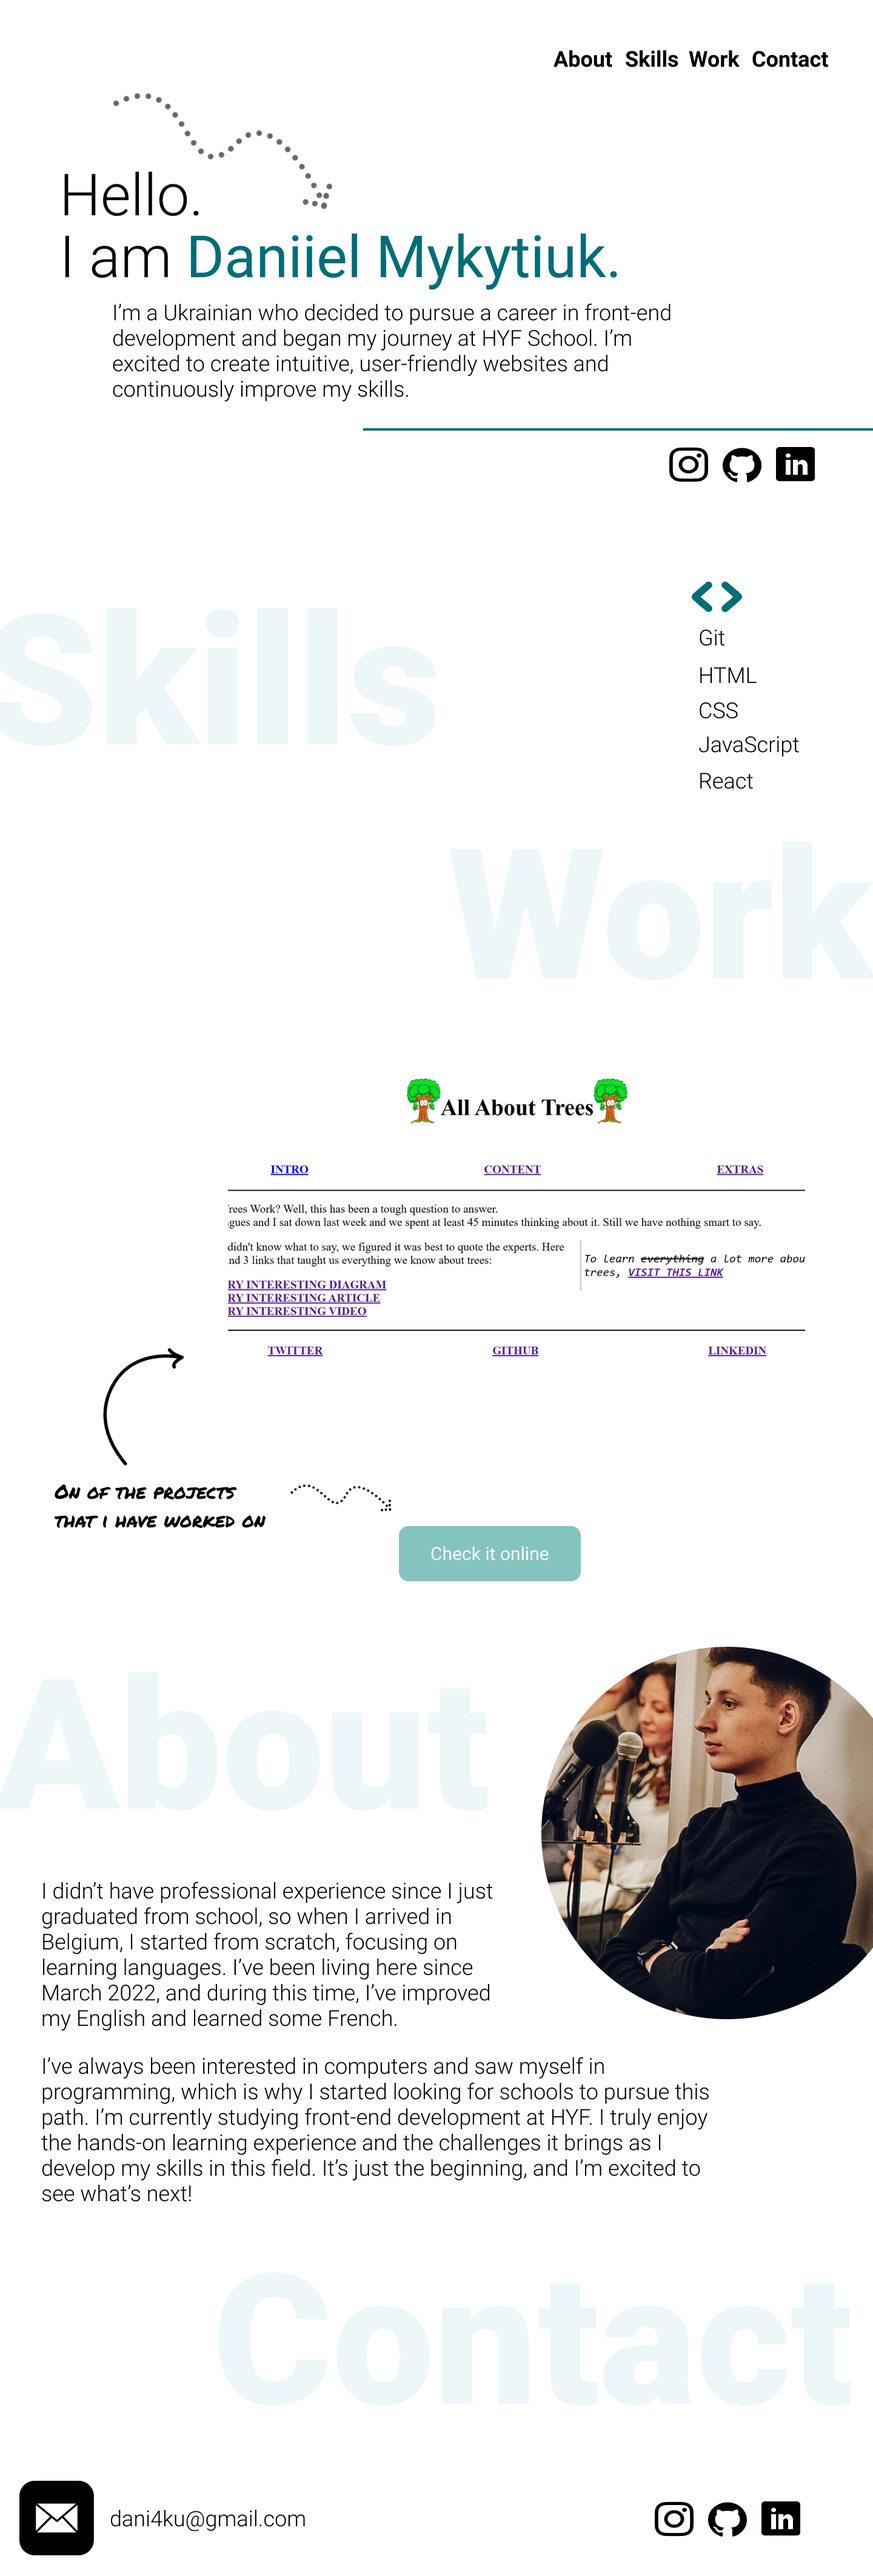
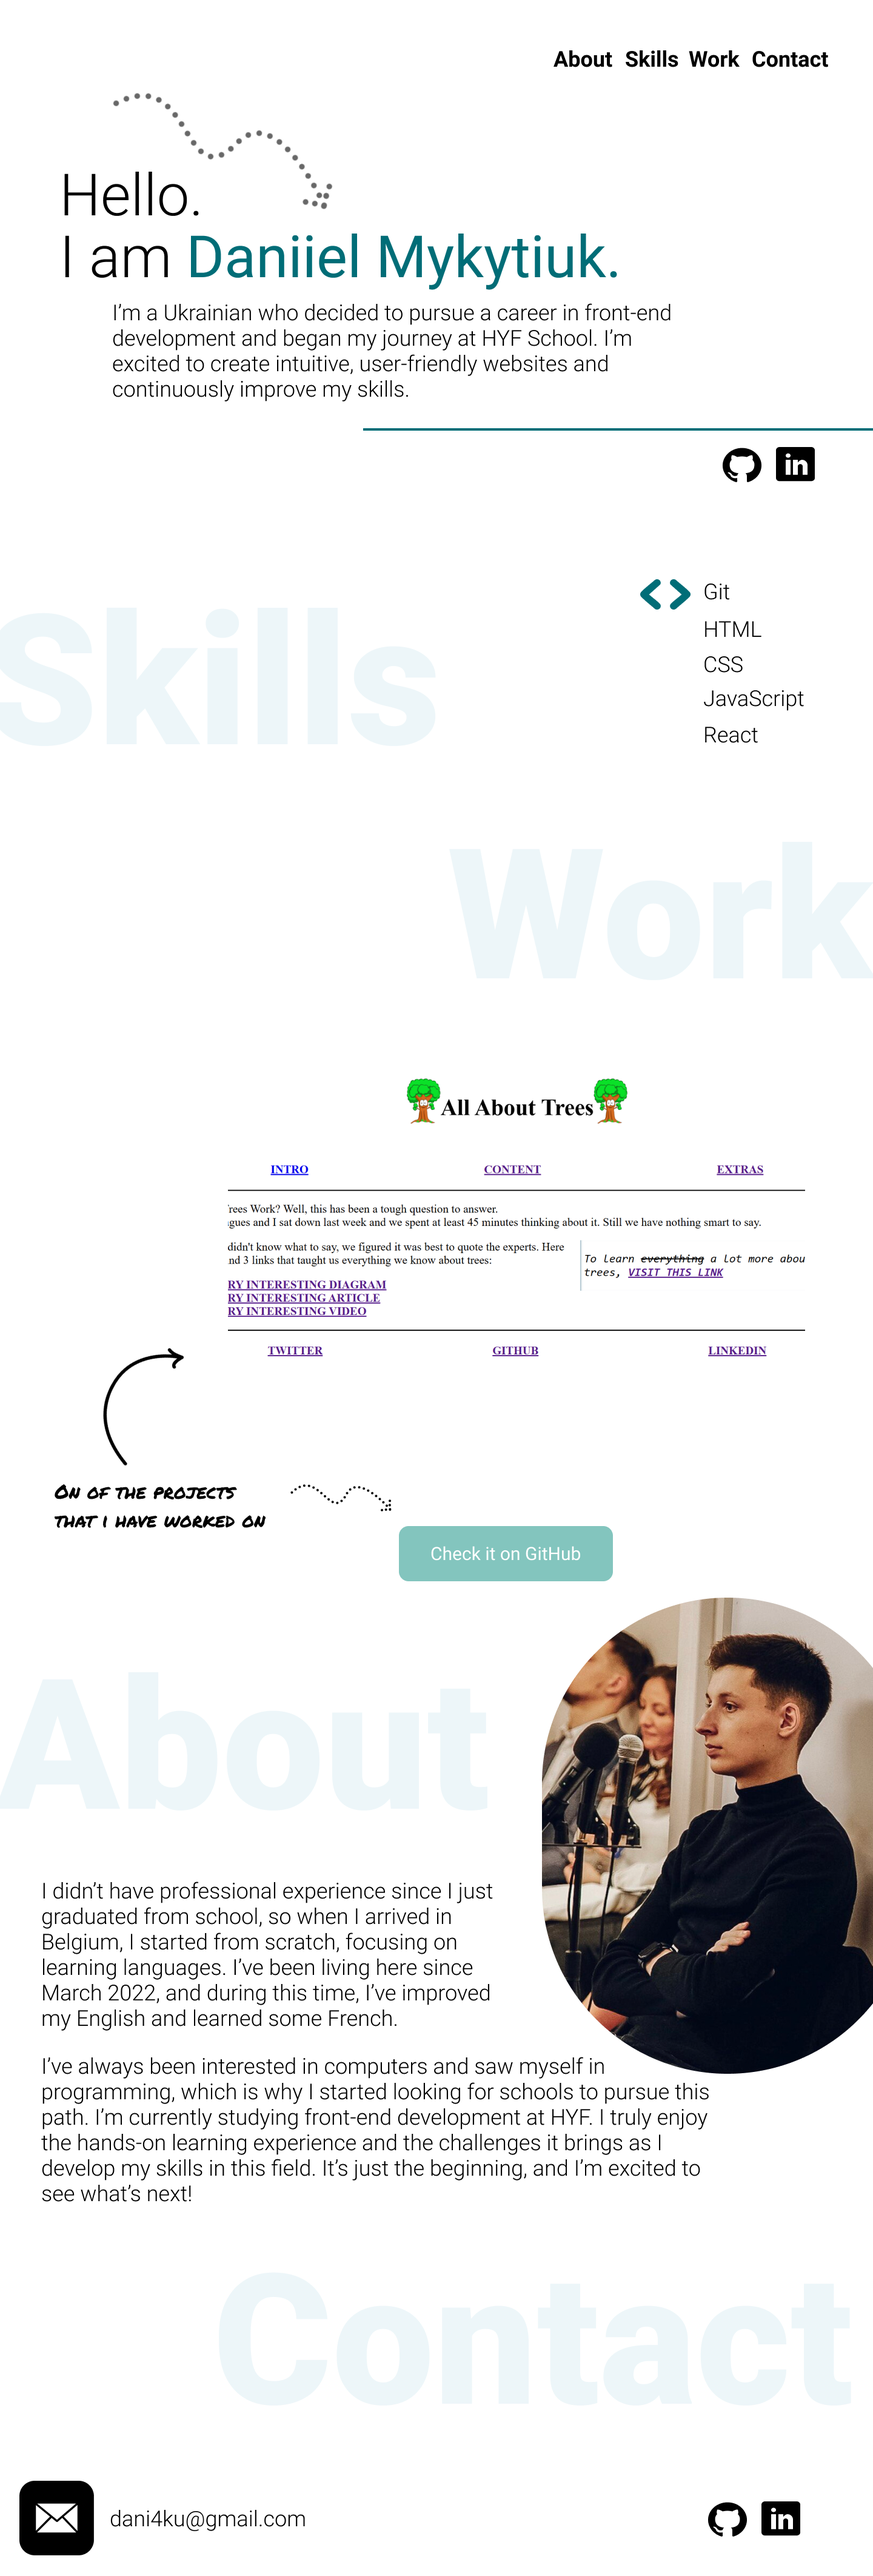
add contact info

diff --git a/index.html b/index.html
@@ -1,160 +1,148 @@
 <!DOCTYPE html>
 <html lang="en">
-  <head>
-    <meta charset="UTF-8" />
-    <link rel="icon" type="image/svg+xml" href="./client/assets/favicon.ico" />
-    <meta name="viewport" content="width=device-width, initial-scale=1.0" />
-    <title>project!</title>
-    <link
-      href="https://cdn.jsdelivr.net/npm/bootstrap@5.1.3/dist/css/bootstrap.min.css"
-      rel="stylesheet"
-      integrity="sha384-1BmE4kWBq78iYhFldvKuhfTAU6auU8tT94WrHftjDbrCEXSU1oBoqyl2QvZ6jIW3"
-      crossorigin="anonymous"
-    />
-    <link href="./styles/index.css" rel="stylesheet" />
-  </head>
 
-  <body>
-    <!-- Navigation bar -->
-    <nav class="navbar navbar-expand py-0">
-      <div class="collapse navbar-collapse justify-content-end" id="navbarNav">
-        <ul class="navbar-nav">
-          <li class="nav-item">
-            <a href="#about" class="nav-link nav-text py-0">About</a>
-          </li>
-          <li class="nav-item">
-            <a href="#skills" class="nav-link nav-text py-0">Skills</a>
-          </li>
-          <li class="nav-item">
-            <a href="#works" class="nav-link nav-text py-0">Works</a>
-          </li>
-          <li class="nav-item">
-            <a href="#contact" class="nav-link nav-text py-0">Contact</a>
-          </li>
-        </ul>
+<head>
+  <meta charset="UTF-8" />
+  <link rel="icon" type="image/svg+xml" href="./client/assets/favicon.ico" />
+  <meta name="viewport" content="width=device-width, initial-scale=1.0" />
+  <title>project!</title>
+  <link href="https://cdn.jsdelivr.net/npm/bootstrap@5.1.3/dist/css/bootstrap.min.css" rel="stylesheet"
+    integrity="sha384-1BmE4kWBq78iYhFldvKuhfTAU6auU8tT94WrHftjDbrCEXSU1oBoqyl2QvZ6jIW3" crossorigin="anonymous" />
+  <link href="./styles/index.css" rel="stylesheet" />
+</head>
+
+<body>
+  <!-- Navigation bar -->
+  <nav class="navbar navbar-expand py-0">
+    <div class="collapse navbar-collapse justify-content-end" id="navbarNav">
+      <ul class="navbar-nav">
+        <li class="nav-item">
+          <a href="#about" class="nav-link nav-text py-0">About</a>
+        </li>
+        <li class="nav-item">
+          <a href="#skills" class="nav-link nav-text py-0">Skills</a>
+        </li>
+        <li class="nav-item">
+          <a href="#works" class="nav-link nav-text py-0">Works</a>
+        </li>
+        <li class="nav-item">
+          <a href="#contact" class="nav-link nav-text py-0">Contact</a>
+        </li>
+      </ul>
+    </div>
+  </nav>
+
+  <!-- Intro section -->
+  <section id="main">
+    <img src="assets/Arrow5.png" alt="main-arrow" class="position-absolute main-arrow" />
+    <div class="main main-header">
+      <h1 class="main-heading">Hello.</h1>
+      <div class="typing-wrapper">
+        <div class="main-heading typed-out">
+          I am <span class="main-heading-emphasis">Daniiel Mykytiuk</span>.
+        </div>
+        <div class="cursor"></div>
       </div>
-    </nav>
+      <h3 class="main-para resp-text mb-4">
+        I'm a Ukrainian who decided to pursue a career in front-end
+        development and began my journey at HYF School. I'm excited to
+        create intuitive, user-friendly websites and continuously improve my
+        skills.
+      </h3>
+    </div>
+    <section id="socials" class="d-flex justify-content-end mb-5">
+      <div class="main-socials-cont d-flex justify-content-end">
+        <a href="https://github.com/danmkt00" target="_blank">
+          <img src="assets/github.svg" alt="github" class="logo mx-2" />
+        </a>
+        <a href="https://www.linkedin.com/in/daniiel-mykytiuk-3a339b26b/" target="_blank">
+          <img src="assets/linkedin-square.svg" alt="linkedin" class="logo mx-2" />
+        </a>
+      </div>
+    </section>
+  </section>
 
-    <!-- Intro section -->
-    <section id="main">
-      <img
-        src="assets/Arrow5.png"
-        alt="main-arrow"
-        class="position-absolute main-arrow"
-      />
-      <div class="main main-header">
-        <h1 class="main-heading">Hello.</h1>
-        <div class="typing-wrapper">
-          <div class="main-heading typed-out">
-            I am <span class="main-heading-emphasis">Daniiel Mykytiuk</span>.
+  <!-- Skills section -->
+  <section id="skills" class="position-relative mb-5">
+    <h1 class="skills-heading resp-heading">Skills</h1>
+    <div class="d-flex position-absolute skills-cont">
+      <img src="assets/dev.svg" alt="dev" class="logo-skills mb-2" />
+      <ul class="skills-group-dev skills-text resp-text">
+        <li>Git</li>
+        <li>HTML</li>
+        <li>CSS</li>
+        <li>JavaScript</li>
+        <li>React</li>
+      </ul>
+    </div>
+  </section>
+
+  <!-- Works section -->
+  <section id="works">
+    <div class="position-relative d-flex justify-content-between">
+      <div></div>
+      <h1 class="work-heading resp-heading">Work</h1>
+    </div>
+    <div class="d-flex justify-content-end resp-positioning">
+      <div class="position-relative small-hide">
+        <img src="assets/Arrow3.png" alt="tutorial-arrow" class="position-absolute tutorial-arrow" />
+        <span class="position-absolute tutorial-text">One of the projects that I have worked on
+        </span>
+        <img src="assets/Arrow5.png" alt="tutorial-btn-arrow" class="position-absolute tutorial-btn-arrow" />
+        <a href="https://github.com/BF-FrontEnd-class-2025/group-2-all-about-trees" target="_blank">
+          <div class="btn position-absolute tutorial-btn text-nowrap">
+            Check it on GitHub
           </div>
-          <div class="cursor"></div>
-        </div>
-        <h3 class="main-para resp-text mb-4">
-          I&#39;m a Ukrainian who decided to pursue a career in front-end
-          development and began my journey at HYF School. I&#39;m excited to
-          create intuitive, user-friendly websites and continuously improve my
-          skills.
-        </h3>
+        </a>
       </div>
-      <section id="socials" class="d-flex justify-content-end mb-5">
-        <div class="main-socials-cont d-flex justify-content-end">
-          <a href="https://github.com/danmkt00" target="_blank">
-            <img src="assets/github.svg" alt="github" class="logo mx-2" />
-          </a>
-          <a
-            href="https://www.linkedin.com/in/daniiel-mykytiuk-3a339b26b/"
-            target="_blank"
-          >
-            <img
-              src="assets/linkedin-square.svg"
-              alt="linkedin"
-              class="logo mx-2"
-            />
-          </a>
-        </div>
-      </section>
-    </section>
+      <div class="iframe-cont">
+        <img src="./assets/all-about-trees.png" class="responsive-iframe" alt="all about trees wireframe" />
+      </div>
+    </div>
+  </section>
 
-    <!-- Skills section -->
-    <section id="skills" class="position-relative mb-5">
-      <h1 class="skills-heading resp-heading">Skills</h1>
-      <div class="d-flex position-absolute skills-cont">
-        <img src="assets/dev.svg" alt="dev" class="logo-skills mb-2" />
-        <ul class="skills-group-dev skills-text resp-text">
-          <li>Git</li>
-          <li>HTML</li>
-          <li>CSS</li>
-          <li>JavaScript</li>
-          <li>React</li>
-        </ul>
-      </div>
-    </section>
+  <!-- About section -->
+  <section id="about" class="about-cont position-relative mb-5">
+    <h1 class="about-heading resp-heading">About</h1>
+    <img src="assets/me.jpg" alt="profile image" class="position-absolute avatar" />
+    <p class="about-text resp-text">
+      I didn't have professional experience since I just graduated from
+      school, so when I arrived in Belgium, I started from scratch, focusing
+      on learning languages. I've been living here since March 2022, and
+      during this time, I've improved my English and learned some French.
+      <br />
+      <br />
+      I've always been interested in computers and saw myself in
+      programming, which is why I started looking for schools to pursue this
+      path. I'm currently studying front-end development at HYF. I truly
+      enjoy the hands-on learning experience and the challenges it brings as I
+      develop my skills in this field. It's just the beginning, and
+      I'm excited to see what's next!
+      <br />
+      <br />
+    </p>
+  </section>
 
-    <!-- Works section -->
-    <section id="works">
-      <div class="position-relative d-flex justify-content-between">
-        <div></div>
-        <h1 class="work-heading resp-heading">Work</h1>
+  <!-- Contact section -->
+  <section id="contact" class="my-5">
+    <div class="d-flex justify-content-end mb-4">
+      <h1 class="contact-heading resp-heading">Contact</h1>
+    </div>
+    <div class="d-flex justify-content-between flip-flex">
+      <a href="mailto:amy@codecast.io" class="d-flex align-items-center mb-3">
+        <img src="assets/email.svg" alt="email icon" class="logo me-4" />
+        <h3 class="contact-text resp-text mb-0">dani4ku@gmail.com</h3>
+      </a>
+      <div class="d-flex justify-content-end">
+        <a href="https://github.com/danmkt00" target="_blank">
+          <img src="assets/github.svg" alt="github" class="logo mx-2" />
+        </a>
+        <a href="https://www.linkedin.com/in/daniiel-mykytiuk-3a339b26b/" target="_blank">
+          <img src="assets/linkedin-square.svg" alt="linkedin" class="logo mx-2" />
+        </a>
       </div>
-      <div class="d-flex justify-content-end resp-positioning">
-        <div class="position-relative small-hide">
-          <img
-            src="assets/Arrow3.png"
-            alt="tutorial-arrow"
-            class="position-absolute tutorial-arrow"
-          />
-          <span class="position-absolute tutorial-text"
-            >One of the projects that I have worked on
-          </span>
-          <img
-            src="assets/Arrow5.png"
-            alt="tutorial-btn-arrow"
-            class="position-absolute tutorial-btn-arrow"
-          />
-          <a
-            href="https://github.com/BF-FrontEnd-class-2025/group-2-all-about-trees"
-            target="_blank"
-          >
-            <div class="btn position-absolute tutorial-btn text-nowrap">
-              Check it on GitHub
-            </div>
-          </a>
-        </div>
-        <div class="iframe-cont">
-          <img
-            src="./assets/all-about-trees.png"
-            class="responsive-iframe"
-            alt="all about trees wireframe"
-          />
-        </div>
-      </div>
-    </section>
+    </div>
+  </section>
+</body>
 
-    <!-- About section -->
-    <section id="about" class="about-cont position-relative mb-5">
-      <h1 class="about-heading resp-heading">About</h1>
-      <img
-        src="assets/me.jpg"
-        alt="profile image"
-        class="position-absolute avatar"
-      />
-      <p class="about-text resp-text">
-        I didn&#39;t have professional experience since I just graduated from
-        school, so when I arrived in Belgium, I started from scratch, focusing
-        on learning languages. I&#39;ve been living here since March 2022, and
-        during this time, I&#39;ve improved my English and learned some French.
-        <br />
-        <br />
-        I&#39;ve always been interested in computers and saw myself in
-        programming, which is why I started looking for schools to pursue this
-        path. I&#39;m currently studying front-end development at HYF. I truly
-        enjoy the hands-on learning experience and the challenges it brings as I
-        develop my skills in this field. It&#39;s just the beginning, and
-        I&#39;m excited to see what&#39;s next!
-        <br />
-        <br />
-      </p>
-    </section>
-  </body>
 </html>

diff --git a/styles/something.css b/styles/something.css
@@ -126,6 +126,14 @@ a:hover {
   left: 180px;
 }
 
+.tutorial-text {
+  font-family: "Permanent Marker", cursive;
+  font-size: 22px;
+  width: 300px;
+  right: -10px;
+  bottom: -130px;
+}
+
 .tutorial-arrow {
   height: 130px;
   right: 20px;
@@ -209,4 +217,20 @@ a:hover {
   right: -120px;
   top: 30px;
   border-radius: 50%;
+}
+
+/* Contact section */
+.contact-heading {
+  font-family: Roboto, sans-serif;
+  font-weight: 900;
+  color: #edf6f9;
+  font-size: 300px;
+  margin-right: -60px;
+}
+
+.contact-text {
+  font-family: Roboto, sans-serif;
+  font-weight: 300;
+  font-size: 32px;
+  color: black;
 }

diff --git a/planning/design.md b/planning/design.md
@@ -10,4 +10,6 @@
 
 > Include your wireframe(s) and link to wireframe
 
+[Figma design](<https://www.figma.com/design/UzLagrN13iqsTEc64SK6Oz/Developer-Portfolio-(Community)?node-id=6-26&t=IoNiv7uERZb14ps4-0>)
+
 ![My portfolio design](./design.png)
